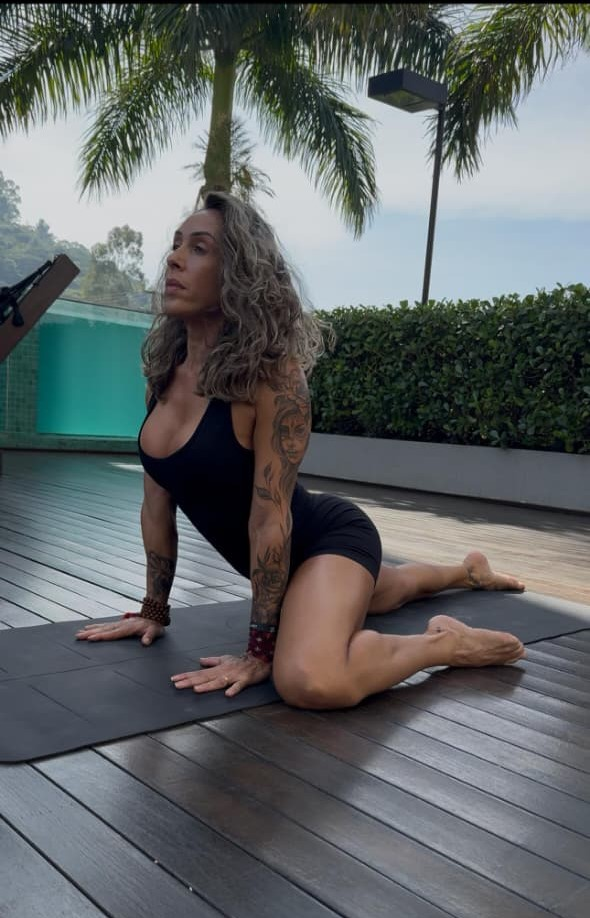
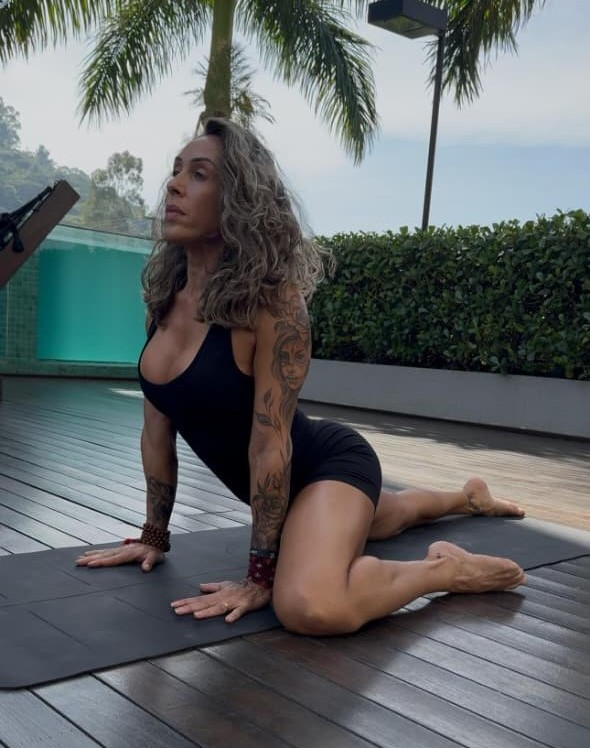
finalização site free strong

diff --git a/landingpages/free-strong/index.html b/landingpages/free-strong/index.html
@@ -21,9 +21,11 @@
   <meta property="og:type" content="website">
   <meta property="og:title" content="FREE & STRONG — Mobilidade, Força e Liberdade">
   <meta property="og:description" content="Aulas novas a cada 15 dias. Assinatura mensal sem fidelidade. Pagamento 100% seguro pela Hotmart.">
-  <meta property="og:image" content="assets/img/og-cover.jpg">
+  <meta property="og:image" content="assets/img/hero.jpg">
   <meta property="og:url" content="https://seudominio.com/">
   <meta name="twitter:card" content="summary_large_image">
+  <meta name="color-scheme" content="light">
+
 
   <!-- Structured Data (Product) -->
   <script type="application/ld+json">
@@ -81,8 +83,8 @@
       <!-- IMAGEM (DESKTOP PRIMEIRO) -->
       <div class="col-lg-6 order-2 order-lg-1">
         <figure class="hero-visual m-0 d-flex justify-content-center">
-          <img src="assets/img/pode.jpg"
-               class="hero-img img-fluid hero-img--desk"
+          <img src="assets/img/hero.jpg"
+               class="hero-img img-fluid hero-img--desk rounded"
                alt="Demonstração de mobilidade e força">
           <span class="hero-glow" aria-hidden="true"></span>
         </figure>
@@ -276,7 +278,7 @@
           <img src="assets/img/benefits-mobility.jpg" class="img-fluid rounded-4 shadow" alt="Mobilidade e leveza" loading="lazy">
         </div>
         <div class="col-lg-6">
-          <h2 class="fw-800 mb-3">Mais leve. Mais presente. <span class="text-gradient">Mais seu.</span></h2>
+          <h2 class="fw-800 mb-3">Seu novo corpo começa agora: Mais leve. Mais presente. <span class="text-gradient">Mais seu.</span></h2>
           <p class="mb-3">A cada aula, você reconstrói sua mobilidade, alivia dores, fortalece sua base e se reconecta com seu corpo.</p>
 
           <div class="row g-3">

diff --git a/landingpages/free-strong/assets/css/styles.css b/landingpages/free-strong/assets/css/styles.css
@@ -776,3 +776,28 @@ footer{background:#fff}
 @media (prefers-reduced-motion: reduce){
   .reveal { opacity: 1 !important; transition: none !important; }
 }
+
+
+
+/* Tokens do gradiente dos TÍTULOS */
+:root{
+  /* light (original) */
+  --title-g1: #6a11cb;
+  --title-g2: #2575fc;
+}
+
+/* dark: versões mais claras para boa leitura */
+@media (prefers-color-scheme: dark){
+  :root{
+    --title-g1: #b388ff; /* violeta claro */
+    --title-g2: #73b0ff; /* azul claro   */
+  }
+}
+
+/* aplica APENAS nos spans de título */
+.text-gradient,
+.brand-mark{
+  background-image: linear-gradient(90deg, var(--title-g1), var(--title-g2));
+  -webkit-background-clip: text; background-clip: text;
+  -webkit-text-fill-color: transparent; color: transparent;
+}
